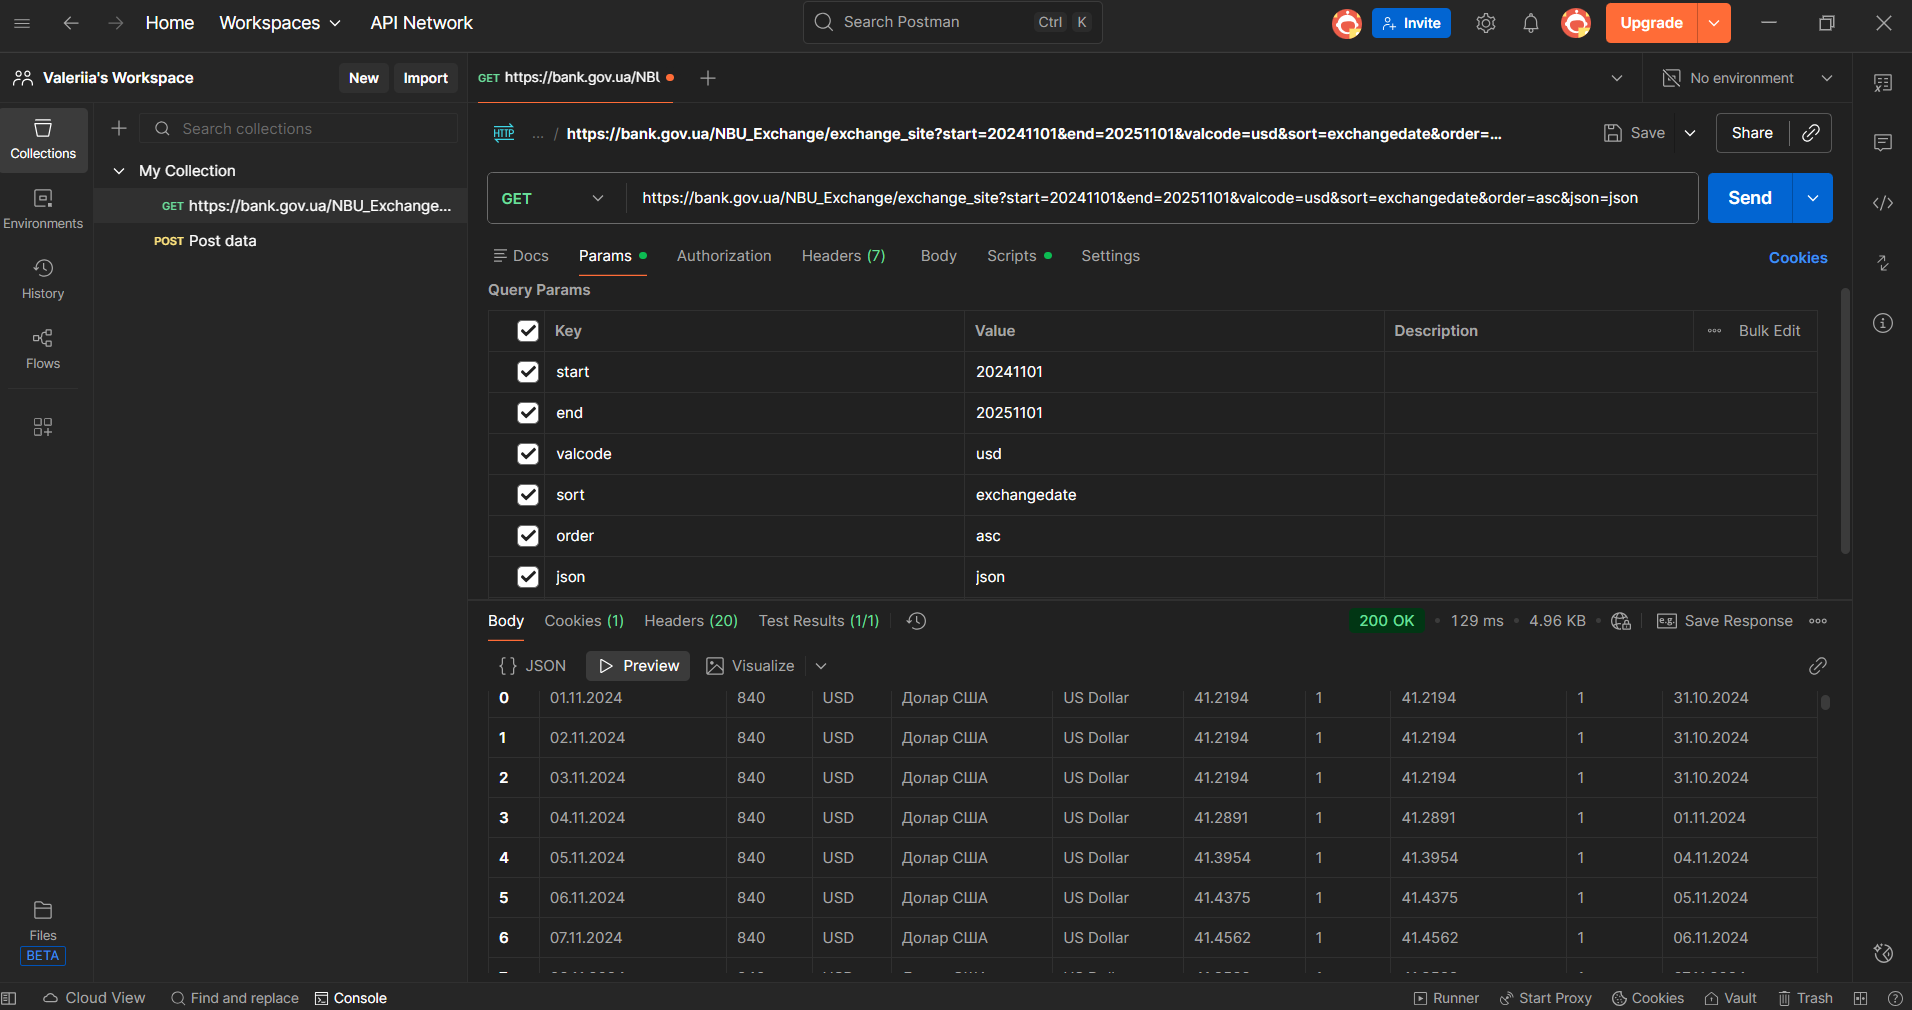
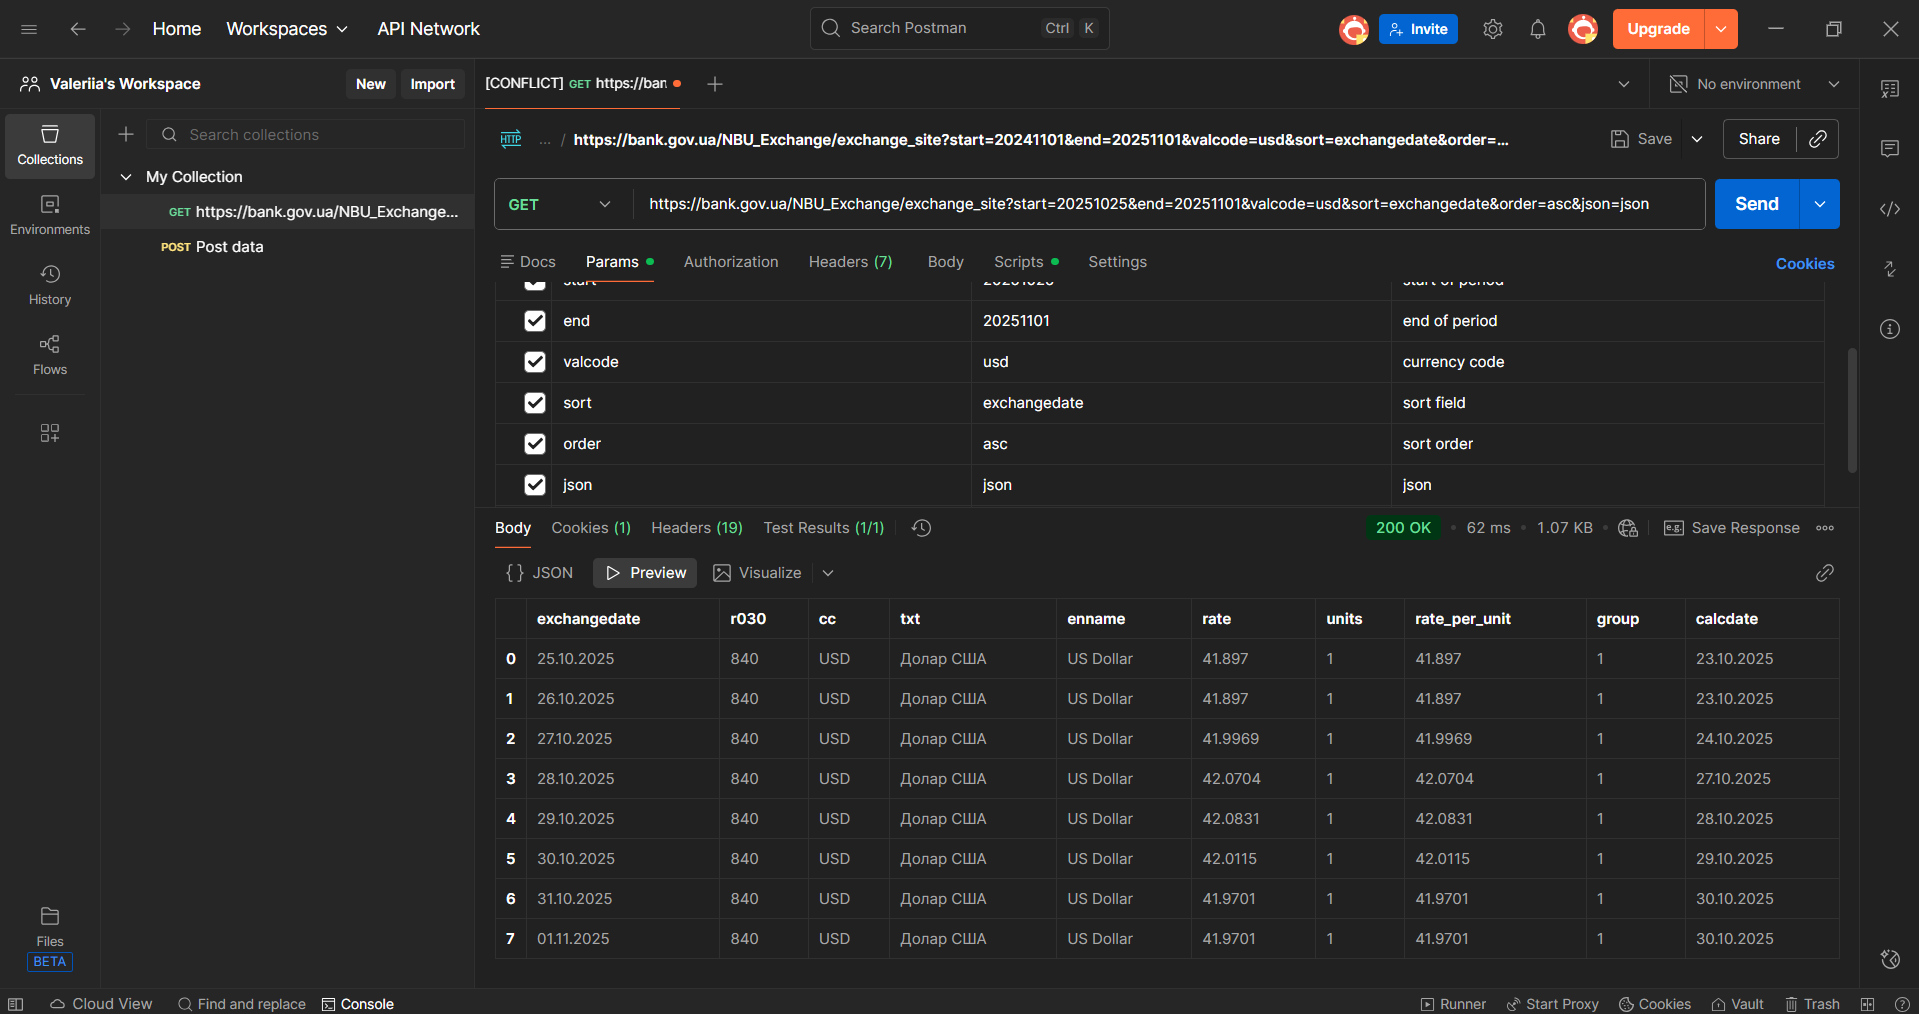
Commit and Push

diff --git a/Lab1/task2_nbu_request/python2.py b/Lab1/task2_nbu_request/python2.py
@@ -1,0 +1,42 @@
+# task2
+import requests
+import csv
+
+url = "https://bank.gov.ua/NBU_Exchange/exchange_site"
+
+params = {
+    "start": "20251025",
+    "end": "20251101",
+    "valcode": "usd",
+    "sort": "exchangedate",
+    "order": "asc",
+    "json": ""
+}
+
+response = requests.get(url, params=params)
+response.raise_for_status()
+data = response.json()
+
+print("------------------------------------------------------------")
+print("|       Курс USD до UAH за тиждень                    |")
+print("------------------------------------------------------------")
+print("|     Дата встановлення     |     Курс до UAH              |")
+print("|----------------------------|------------------------------|")
+
+for row in data:
+    date = row['exchangedate']
+    rate = f"{row['rate']:.4f}"
+    print(f"| {date:<26} | {rate:<28} |")
+
+print("------------------------------------------------------------")
+
+#  CSV
+fields = ["exchangedate", "rate"]
+
+with open("../../nbu_usd_20251025_20251101.csv", "w", newline="", encoding="utf-8") as f:
+    writer = csv.DictWriter(f, fieldnames=fields)
+    writer.writeheader()
+    for item in data:
+        writer.writerow({k: item.get(k, "") for k in fields})
+
+print("CSV-файл збережено як nbu_usd_20251025_20251101.csv")

diff --git a/Lab1/task3_matplotlib/python3.py b/Lab1/task3_matplotlib/python3.py
@@ -1,0 +1,37 @@
+# task3
+import requests
+import matplotlib.pyplot as plt
+from datetime import datetime
+
+url = "https://bank.gov.ua/NBU_Exchange/exchange_site"
+
+params = {
+    "start": "20251025",
+    "end": "20251101",
+    "valcode": "usd",
+    "sort": "exchangedate",
+    "order": "asc",
+    "json": ""
+}
+
+response = requests.get(url, params=params)
+data = response.json()
+
+# Масиви для графіка
+dates = []
+rates = []
+
+for row in data:
+    date_obj = datetime.strptime(row["exchangedate"], "%d.%m.%Y")
+    dates.append(date_obj)
+    rates.append(float(row["rate"]))
+
+# Побудова графіка
+plt.figure(figsize=(10,5))
+plt.plot(dates, rates, marker="o")
+plt.title("Зміна курсу USD (НБУ)\n25.10.2025 – 01.11.2025")
+plt.xlabel("Дата")
+plt.ylabel("Курс UAH за USD")
+plt.grid(True)
+plt.tight_layout()
+plt.show()
